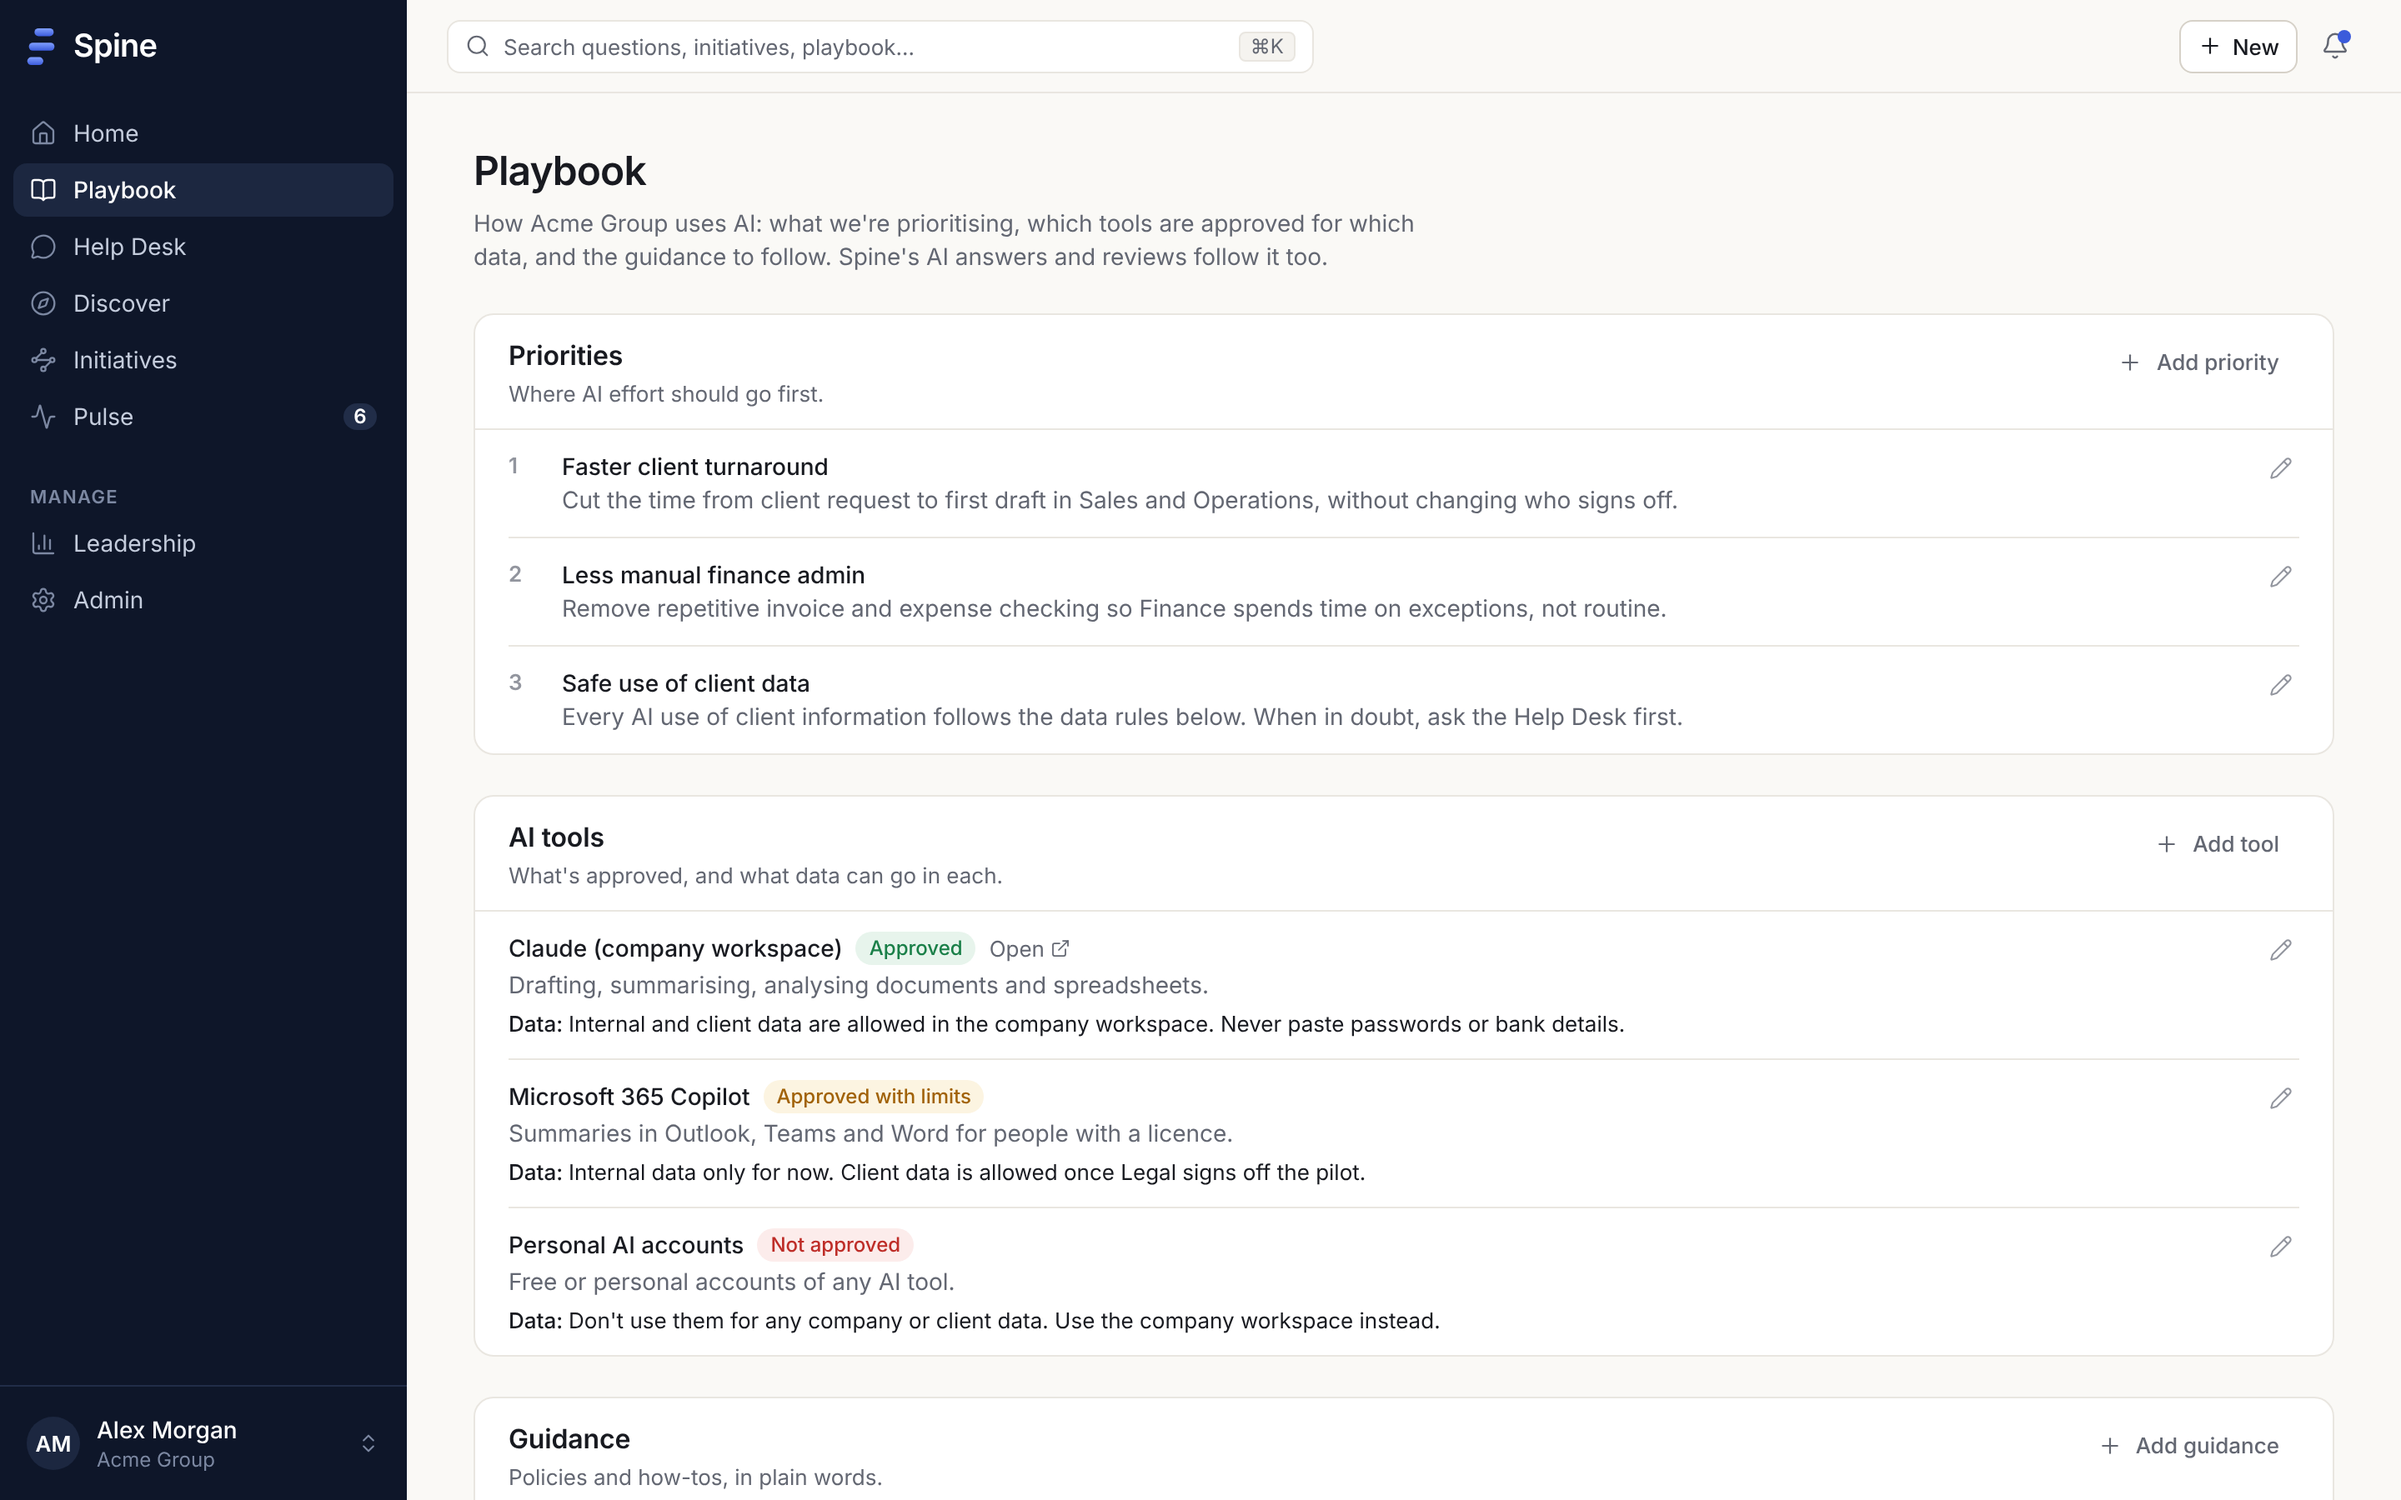
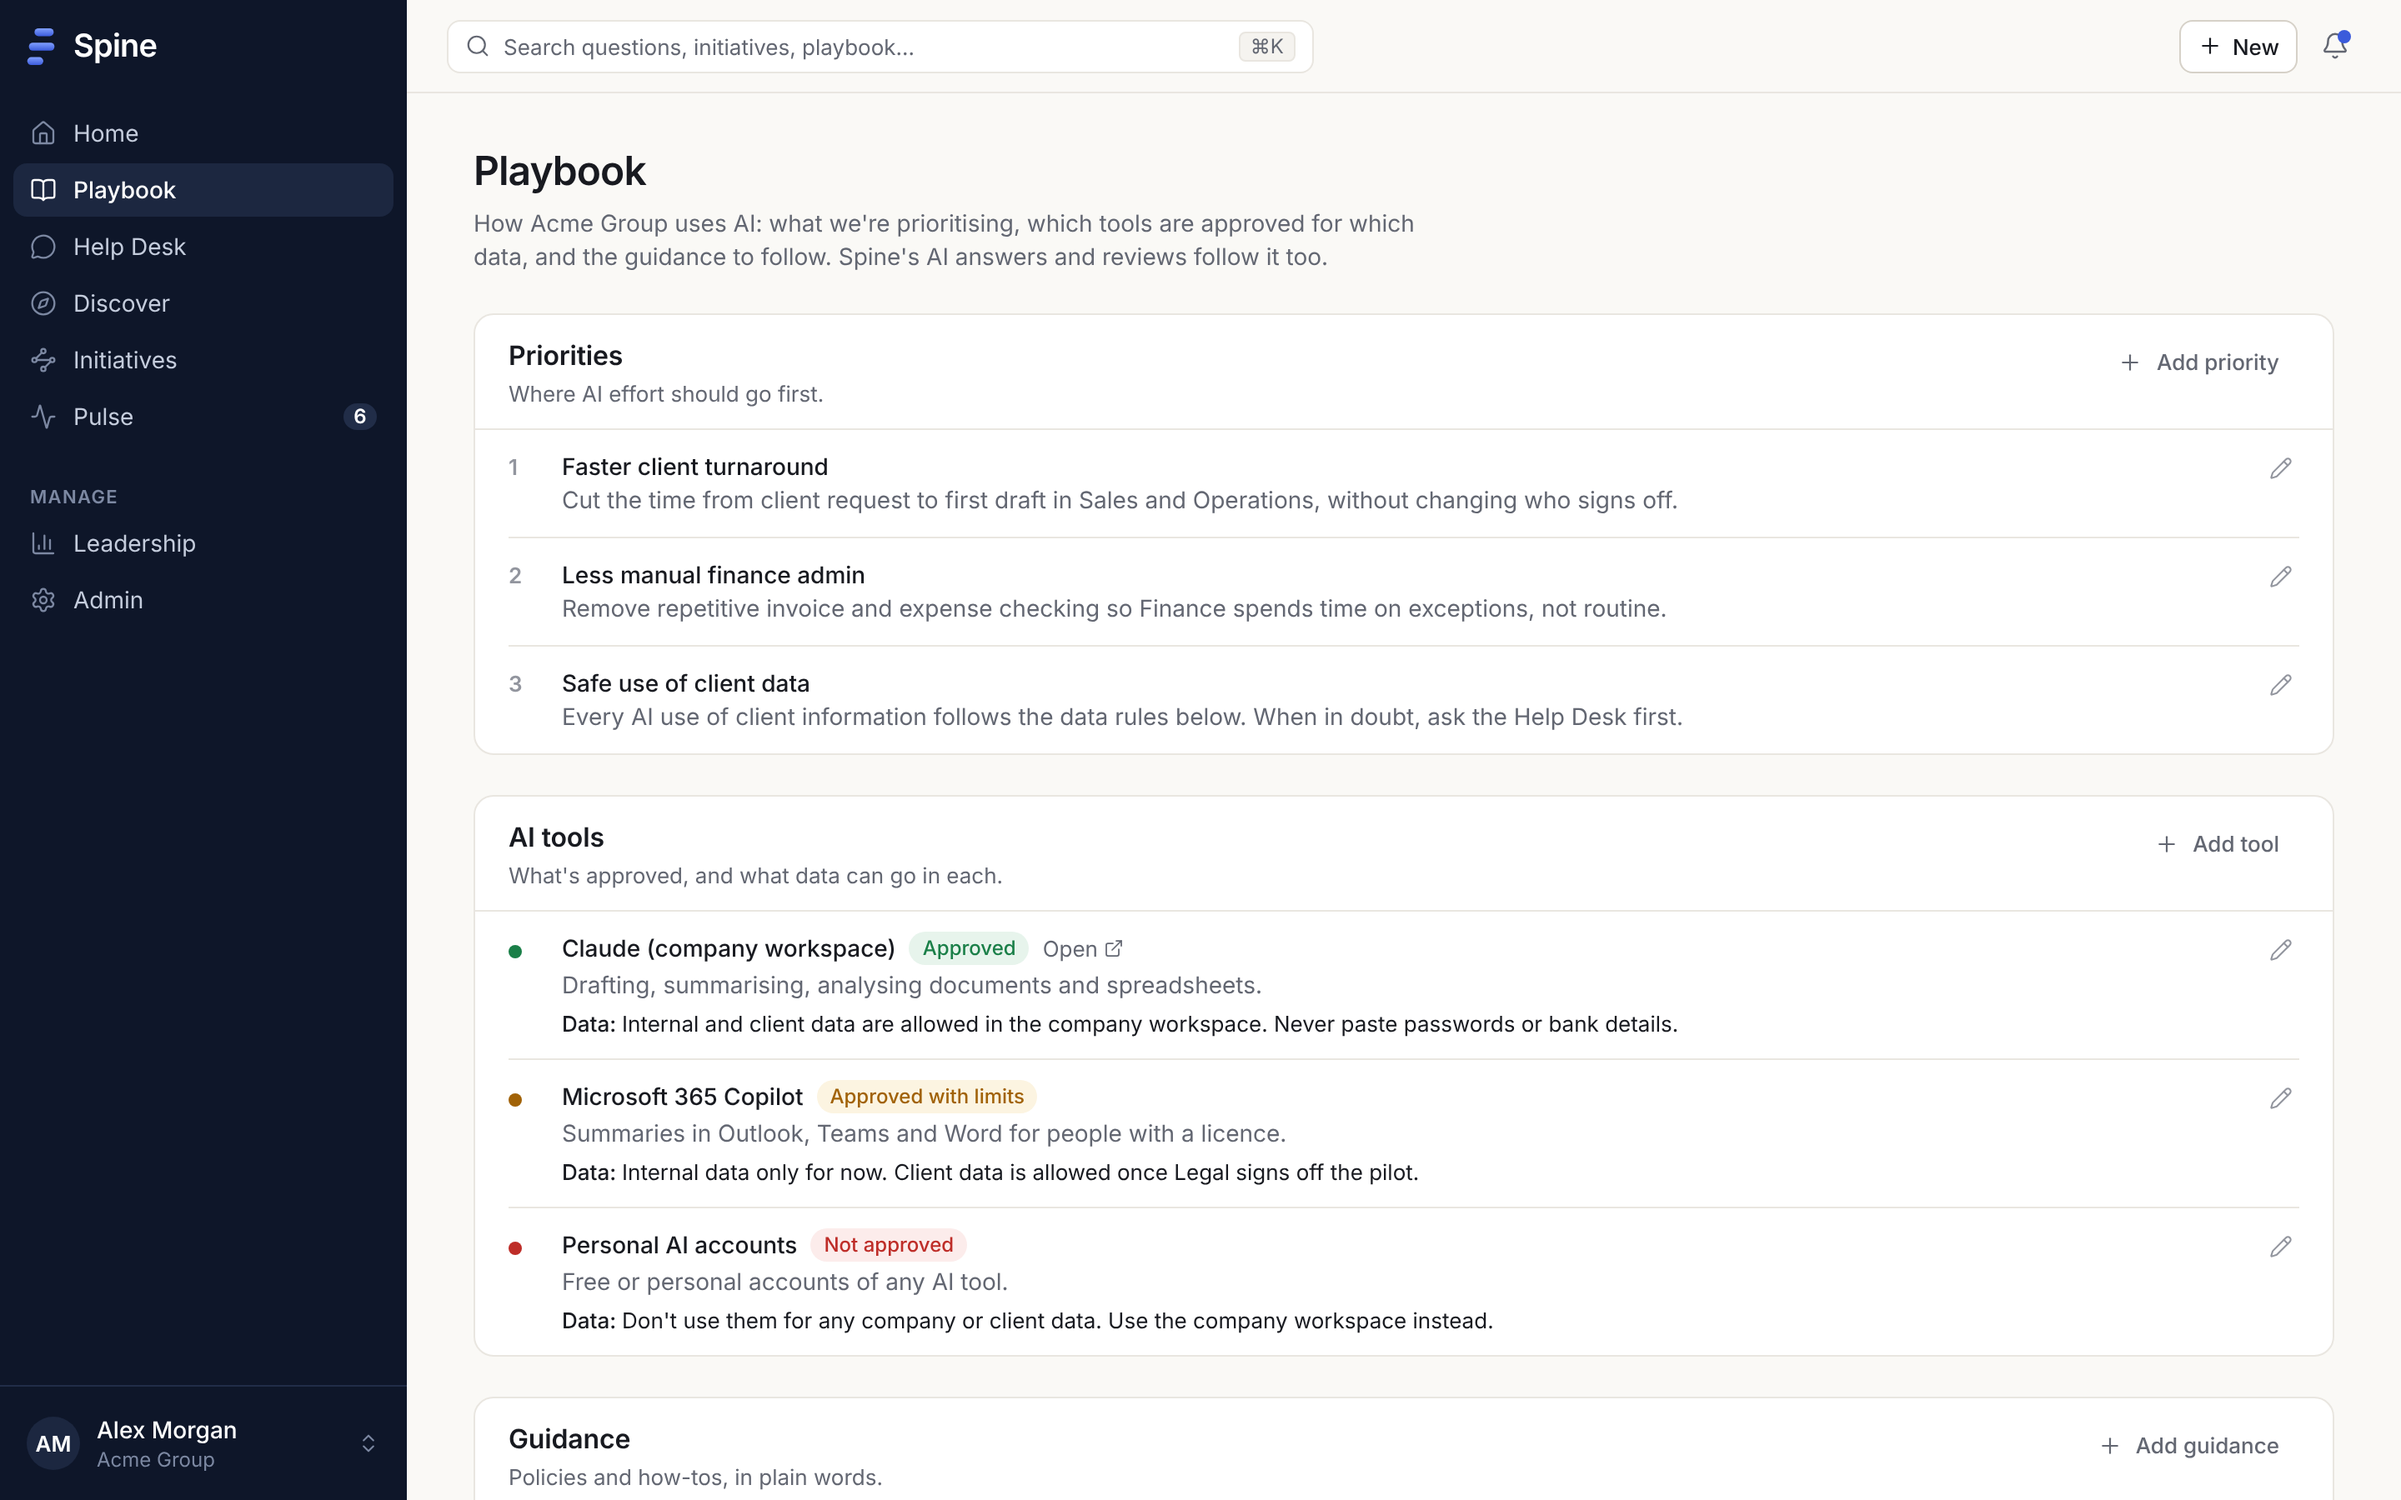
Align Playbook rows on one leading column; full-height sticky sidebar; keep the top bar in view while scrolling; refresh advert screenshots
Claude-Session: https://claude.ai/code/session_012S2259aRFQRbcUBcQW4djs

Changed region(s): [[0.2188, 0.7156, 0.625, 0.9022], [0.2188, 0.6222, 0.6875, 0.6844]]

diff --git a/src/app/(app)/playbook/page.tsx b/src/app/(app)/playbook/page.tsx
@@ -1,5 +1,5 @@
 import Link from "next/link";
-import { ExternalLink } from "lucide-react";
+import { ChevronRight, ExternalLink } from "lucide-react";
 import { Page } from "@/components/shell/Shell";
 import { PageHeader } from "@/components/ui/PageHeader";
 import { Container } from "@/components/ui/Container";
@@ -16,6 +16,10 @@ const STATUS = {
   LIMITED: { label: "Approved with limits", cls: "bg-warning-soft text-warning" },
   NOT_APPROVED: { label: "Not approved", cls: "bg-critical-soft text-critical" },
 } as const;
+const DOT = { APPROVED: "bg-positive", LIMITED: "bg-warning", NOT_APPROVED: "bg-critical" } as const;
+
+/** Every Playbook row shares one leading column (number, status dot or expand arrow) so titles line up. */
+const GUTTER = "flex w-5 shrink-0 justify-start";
 
 /** Alignment: what the company is prioritising, which AI tools are approved for what data, and how to use them. */
 export default async function PlaybookPage() {
@@ -39,7 +43,7 @@ export default async function PlaybookPage() {
           ) : (
             priorities.map((p, i) => (
               <div key={p.id} className="relative flex gap-3 py-3">
-                <span className="w-5 shrink-0 text-label font-semibold text-text-faint">{i + 1}</span>
+                <span className={cx(GUTTER, "pt-px text-label font-semibold text-text-faint")}>{i + 1}</span>
                 <div className={cx("min-w-0 flex-1", edit && "pr-8")}>
                   <p className="text-meta font-medium text-text">
                     {p.title}
@@ -58,7 +62,11 @@ export default async function PlaybookPage() {
             <EmptyState>{edit ? "List the AI tools people may use, and the data rules for each." : "No tools listed yet. Ask the Help Desk before using a new AI tool with company data."}</EmptyState>
           ) : (
             tools.map((t) => (
-              <div key={t.id} id={`tool-${t.id}`} className={cx("relative py-3", edit && "pr-8")}>
+              <div key={t.id} id={`tool-${t.id}`} className="relative flex gap-3 py-3">
+                <span className={cx(GUTTER, "pt-2")} aria-hidden>
+                  <span className={cx("h-2 w-2 rounded-full", DOT[t.status])} />
+                </span>
+                <div className={cx("min-w-0 flex-1", edit && "pr-8")}>
                 <div className="flex flex-wrap items-center gap-2">
                   <p className="text-meta font-medium text-text">{t.name}</p>
                   <span className={cx("rounded-full px-2 py-0.5 text-tiny font-medium", STATUS[t.status].cls)}>{STATUS[t.status].label}</span>
@@ -74,6 +82,7 @@ export default async function PlaybookPage() {
                   {t.dataGuidance}
                 </p>
                 {edit && <PlaybookItemEditor triggerClassName="absolute right-0 top-3" kind="tool" id={t.id} label={t.name} initial={{ name: t.name, purpose: t.purpose, status: t.status, dataGuidance: t.dataGuidance, url: t.url ?? "" }} />}
+                </div>
               </div>
             ))
           )}
@@ -85,12 +94,19 @@ export default async function PlaybookPage() {
           ) : (
             guides.map((g) => (
               <details key={g.id} id={`guide-${g.id}`} className="group py-3">
-                <summary className="flex cursor-pointer list-none items-center justify-between gap-3">
-                  <span className="text-meta font-medium text-text">{g.title}</span>
+                <summary className="flex cursor-pointer list-none items-center gap-3">
+                  <span className={GUTTER} aria-hidden>
+                    <ChevronRight size={14} strokeWidth={ICON_STROKE} className="text-text-faint transition-transform group-open:rotate-90" />
+                  </span>
+                  <span className="min-w-0 flex-1 text-meta font-medium text-text">{g.title}</span>
                   <span className="text-label text-text-faint">Updated {shortDate(g.updatedAt)}</span>
                 </summary>
-                <p className="mt-2 max-w-prose whitespace-pre-line text-body text-text">{g.body}</p>
-                {edit && <PlaybookItemEditor kind="guide" id={g.id} label={g.title} initial={{ title: g.title, body: g.body }} />}
+                <p className="ml-8 mt-2 max-w-prose whitespace-pre-line text-body text-text">{g.body}</p>
+                {edit && (
+                  <div className="ml-8 mt-2">
+                    <PlaybookItemEditor kind="guide" id={g.id} label={g.title} initial={{ title: g.title, body: g.body }} />
+                  </div>
+                )}
               </details>
             ))
           )}

diff --git a/src/components/shell/Shell.tsx b/src/components/shell/Shell.tsx
@@ -22,10 +22,13 @@ export function Shell({ user, access, pulseCount, bellItems, updates, topics, ch
   const pathname = usePathname();
   useEffect(() => setDrawer(false), [pathname]);
   return (
-    <div className="min-h-screen bg-background text-text">
-      <aside className="fixed inset-y-0 left-0 hidden w-sidebar print:hidden lg:block">
-        <SidebarNav user={user} access={access} pulseCount={pulseCount} />
-      </aside>
+    <div className="flex min-h-screen bg-background text-text">
+      {/* The navy column runs the page's full height; the nav inside it stays in view while the page scrolls. */}
+      <div className="hidden w-sidebar shrink-0 bg-nav print:hidden lg:block">
+        <aside className="sticky top-0 h-screen">
+          <SidebarNav user={user} access={access} pulseCount={pulseCount} />
+        </aside>
+      </div>
       {drawer && (
         <div className="fixed inset-0 z-50 lg:hidden" role="dialog" aria-modal="true" aria-label="Navigation">
           <button type="button" className="absolute inset-0 bg-scrim/50" aria-label="Close navigation" onClick={() => setDrawer(false)} />
@@ -34,8 +37,8 @@ export function Shell({ user, access, pulseCount, bellItems, updates, topics, ch
           </div>
         </div>
       )}
-      <div className="lg:pl-sidebar print:pl-0">
-        <div className="print:hidden">
+      <div className="min-w-0 flex-1">
+        <div className="sticky top-0 z-30 print:hidden">
           <TopBar bellItems={bellItems} updates={updates} onMenu={() => setDrawer(true)} />
         </div>
         <main className="px-4 pb-16 pt-6 sm:px-6 lg:px-10 lg:pt-8 print:px-0 print:pt-0">{children}</main>
